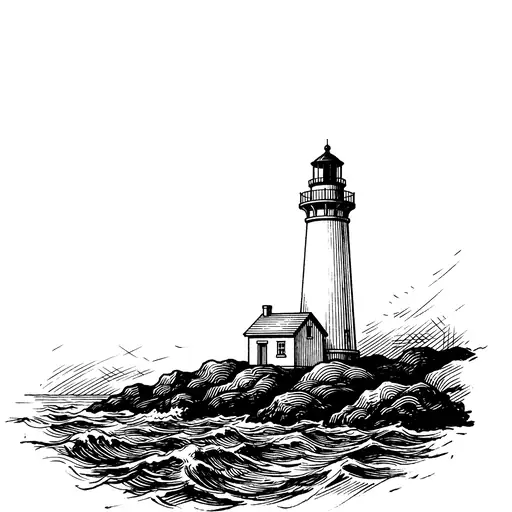
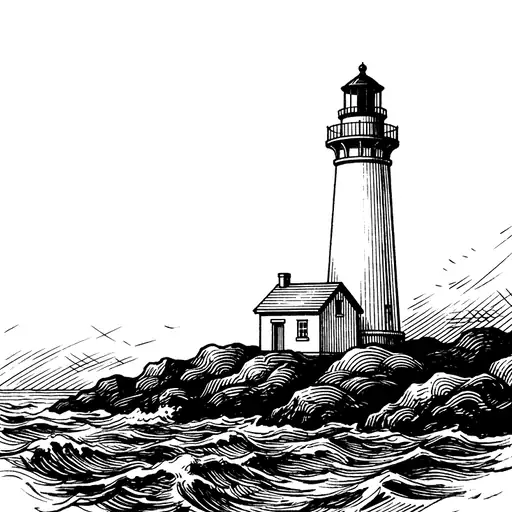
Add Google sign-in, bleed the art and remove catalog codes
Sign-in lives on a new Settings page, reached from the corner of every
screen. Redirects are limited to the site and localhost, with tests. Art is
framed by its dense ink and runs off the bottom and lower sides of each cell.
The A-1 style codes meant nothing in a personal library, so they're gone.

diff --git a/src/styles/app.css b/src/styles/app.css
@@ -49,7 +49,7 @@ svg { flex: none; }
   line-height: 1;
 }
 .head { font-size: 1.75rem; }
-.title-head { font-size: clamp(3rem, 15vw, 5rem); padding-right: 60px; }
+.title-head { font-size: clamp(3rem, 15vw, 5rem); padding-right: 112px; }
 .book-voice { font: 400 1.25rem/1.4 var(--book); }
 .hand { color: var(--biro); font: 400 1.25rem/1.35 var(--reader); }
 .where { font-size: 0.9375rem; }
@@ -155,11 +155,8 @@ p a { color: inherit; text-underline-offset: 3px; }
 .tabs a[aria-current] { background: var(--ink); color: var(--paper); }
 .tabs svg { width: 22px; height: 22px; }
 
+.corner { position: absolute; top: 8px; right: 16px; z-index: 2; display: flex; gap: 8px; }
 .theme-toggle {
-  position: absolute;
-  top: 8px;
-  right: 16px;
-  z-index: 2;
   display: grid;
   place-items: center;
   width: 48px;
@@ -187,6 +184,9 @@ p a { color: inherit; text-underline-offset: 3px; }
 /* The title prints over the blank paper at the top of the art, and the art sits on the cell's floor. */
 .cell > .thumb { margin-top: auto; aspect-ratio: 1; }
 .cell:has(.thumb[data-art]) > .cell-head { z-index: 1; margin-bottom: -18%; }
+/* Art runs right up to the rules on the bottom and sides. Elsewhere it has no cell, so it gets its own rule. */
+.cell:has(.thumb[data-art]) > .thumb { width: calc(100% + 12px); margin: auto -6px -6px; }
+.book-head .thumb[data-art], .selected .thumb[data-art], .buddy-head .thumb[data-art], .reading-cell .thumb[data-art] { border: var(--line) solid var(--ink); }
 .thumb-art { position: absolute; inset: 0; display: block; width: 100%; height: 100%; }
 .thumb-icon { display: block; width: 100%; height: 100%; object-fit: contain; padding: 8%; }
 .thumb-stamp {
@@ -225,7 +225,7 @@ p a { color: inherit; text-underline-offset: 3px; }
 /* ---------- Desk ---------- */
 .desk { display: grid; grid-template-columns: minmax(0, 1fr); gap: 14px; }
 
-.masthead { display: flex; align-items: center; gap: 12px; min-height: 48px; padding-right: 60px; }
+.masthead { display: flex; align-items: center; gap: 12px; min-height: 48px; padding-right: 112px; }
 .masthead::before, .masthead::after { content: ''; flex: 1; height: 4px; background: var(--rule); }
 .masthead h1 { font-size: 2.75rem; }
 
@@ -346,7 +346,7 @@ p a { color: inherit; text-underline-offset: 3px; }
 }
 
 /* ---------- Shelves ---------- */
-.shelves-head { display: flex; align-items: baseline; gap: 12px; padding-right: 60px; }
+.shelves-head { display: flex; align-items: baseline; gap: 12px; padding-right: 112px; }
 .shelves-tools { display: flex; flex-wrap: wrap; gap: 10px; }
 .shelves-tools .segments { flex: 1 1 200px; }
 .year { display: flex; align-items: center; gap: 10px; margin: 8px 0; font-size: 1.5rem; }
@@ -377,8 +377,7 @@ p a { color: inherit; text-underline-offset: 3px; }
 .cell-static { display: flex; flex-direction: column; gap: 4px; min-width: 0; margin: 0 calc(var(--line) * -1) calc(var(--line) * -1) 0; padding: 6px; border: var(--line) solid var(--ink); }
 .cell-head { position: relative; display: grid; grid-template-rows: 1fr auto; gap: 1px; min-height: 3.2em; }
 .cell-title { font: 400 0.9375rem/1.05 var(--head); letter-spacing: 0.015em; text-transform: uppercase; }
-.cell-code { font-size: 0.75rem; line-height: 1; }
-.catalog[data-size='small'] .cell-title, .catalog[data-size='small'] .cell-code { display: none; }
+.catalog[data-size='small'] .cell-title { display: none; }
 .catalog[data-size='small'] .cell-head { min-height: 20px; }
 
 .selected {
@@ -426,7 +425,7 @@ td a { display: inline-flex; align-items: center; min-height: 48px; color: inher
 .entries .book-voice { font-size: 1.125rem; }
 
 /* ---------- Buddy ---------- */
-.buddy-head { display: grid; grid-template-columns: auto 52px minmax(0, 1fr); gap: 10px; align-items: center; padding-right: 56px; }
+.buddy-head { display: grid; grid-template-columns: auto 52px minmax(0, 1fr); gap: 10px; align-items: center; padding-right: 112px; }
 .buddy-title { font: 600 1.25rem/1.15 var(--book); }
 
 .thread { display: grid; gap: 18px; }
@@ -500,7 +499,7 @@ td a { display: inline-flex; align-items: center; min-height: 48px; color: inher
 /* ---------- Wide ---------- */
 @media (min-width: 900px) {
   .page { padding: 24px 32px 48px; }
-  .theme-toggle { top: 16px; right: 32px; }
+  .corner { top: 16px; right: 32px; }
   .tabs { position: static; order: -1; border-top: 0; border-bottom: var(--line) solid var(--ink); }
   .tabs a { flex-direction: row; gap: 8px; min-height: 52px; }
   .desk { grid-template-columns: minmax(0, 7fr) minmax(0, 5fr); gap: 16px 32px; align-items: start; }

diff --git a/src/components/settings/Settings.tsx b/src/components/settings/Settings.tsx
@@ -1,0 +1,68 @@
+import { useAuthActions } from '@convex-dev/auth/react'
+import { useConvexAuth, useQuery } from 'convex/react'
+import { useState } from 'react'
+import { api } from '../../../convex/_generated/api'
+
+function Account() {
+  const { isLoading, isAuthenticated } = useConvexAuth()
+  const viewer = useQuery(api.users.viewer, isAuthenticated ? {} : 'skip')
+  const { signIn, signOut } = useAuthActions()
+  const [busy, setBusy] = useState(false)
+  const [failed, setFailed] = useState(false)
+
+  const run = async (action: () => Promise<unknown>) => {
+    setBusy(true)
+    setFailed(false)
+    try {
+      await action()
+    } catch {
+      setFailed(true)
+    } finally {
+      setBusy(false)
+    }
+  }
+
+  if (isLoading) return <p role="status">Checking your account…</p>
+
+  return (
+    <div className="box stack">
+      {isAuthenticated ? (
+        <>
+          <p>Signed in as <strong>{viewer?.name ?? viewer?.email ?? '…'}</strong></p>
+          {viewer?.name && viewer.email && <p className="where">{viewer.email}</p>}
+          <div className="btn-row">
+            <button type="button" className="btn" disabled={busy} onClick={() => run(signOut)}>Sign out</button>
+          </div>
+        </>
+      ) : (
+        <>
+          <p>Sign in to keep your books, notes and conversations.</p>
+          <div className="btn-row">
+            <button
+              type="button"
+              className="btn btn-solid"
+              disabled={busy}
+              onClick={() => run(() => signIn('google', { redirectTo: `${window.location.origin}/settings` }))}
+            >
+              Sign in with Google
+            </button>
+          </div>
+        </>
+      )}
+      {failed && <p role="alert">That didn't work. Check your connection and try again.</p>}
+    </div>
+  )
+}
+
+export function Settings() {
+  return (
+    <div className="narrow stack">
+      <h1 className="title-head">Settings</h1>
+      <hr className="rule" />
+      <section className="stack" aria-labelledby="account-heading">
+        <h2 id="account-heading" className="head">Account</h2>
+        <Account />
+      </section>
+    </div>
+  )
+}

diff --git a/src/components/shelf/Shelves.tsx b/src/components/shelf/Shelves.tsx
@@ -125,11 +125,10 @@ export function Shelves() {
       {view === 'table' && shown.length > 0 && (
         <div className="table-wrap">
           <table>
-            <thead><tr><th>Code</th><th>Title</th><th>Author</th><th>Year</th><th>Rating</th></tr></thead>
+            <thead><tr><th>Title</th><th>Author</th><th>Year</th><th>Rating</th></tr></thead>
             <tbody>
               {shown.map(b => (
                 <tr key={b.slug}>
-                  <td>{b.code}</td>
                   <td><Link to="/books/$bookSlug" params={{ bookSlug: b.slug }}>{b.title}</Link></td>
                   <td>{b.author}</td>
                   <td>{b.year}</td>
@@ -151,12 +150,11 @@ export function Shelves() {
                 type="button"
                 className="cell"
                 aria-pressed={selected === b.slug}
-                aria-label={`${b.title} by ${b.author}, code ${b.code}`}
+                aria-label={`${b.title} by ${b.author}`}
                 onClick={() => setSelected(selected === b.slug ? null : b.slug)}
               >
                 <span className="cell-head">
                   <span className="cell-title">{b.title}</span>
-                  <span className="cell-code">{b.code}</span>
                   {b.status === 'read' && <Tick />}
                 </span>
                 <Thumb book={b} />

diff --git a/convex/lib/redirects.test.ts b/convex/lib/redirects.test.ts
@@ -1,0 +1,29 @@
+import { expect, test } from 'vitest'
+import { allowedRedirect } from './redirects'
+
+const SITE = 'https://margin.example'
+
+test('the site itself is allowed, however the address is written', () => {
+  expect(allowedRedirect('/settings', SITE)).toBe('https://margin.example/settings')
+  expect(allowedRedirect('https://margin.example/settings', SITE)).toBe('https://margin.example/settings')
+  expect(allowedRedirect('?code=1', SITE)).toBe('https://margin.example/?code=1')
+})
+
+test('this machine is allowed while developing', () => {
+  expect(allowedRedirect('http://localhost:5199/settings', SITE)).toBe('http://localhost:5199/settings')
+  expect(allowedRedirect('http://127.0.0.1:5199/', SITE)).toBe('http://127.0.0.1:5199/')
+})
+
+test('anywhere else is refused, including lookalikes and tricks', () => {
+  for (const bad of [
+    'https://evil.example/',
+    'https://margin.example.evil.example/',
+    'https://margin.example@evil.example/',
+    '//evil.example/',
+    'https://localhost.evil.example/',
+    'https://localhost/',
+    'javascript:alert(1)',
+  ]) {
+    expect(() => allowedRedirect(bad, SITE), bad).toThrow()
+  }
+})

diff --git a/src/main.tsx b/src/main.tsx
@@ -5,12 +5,15 @@ import '@fontsource/kalam/latin-400.css'
 import './styles/tokens.css'
 import './styles/app.css'
 
+import { ConvexAuthProvider } from '@convex-dev/auth/react'
 import { createRouter, RouterProvider } from '@tanstack/react-router'
+import { ConvexReactClient } from 'convex/react'
 import { MotionConfig } from 'motion/react'
 import { StrictMode } from 'react'
 import { createRoot } from 'react-dom/client'
 import { routeTree } from './routeTree.gen'
 
+const convex = new ConvexReactClient(import.meta.env.VITE_CONVEX_URL as string)
 const router = createRouter({ routeTree, defaultViewTransition: true })
 
 declare module '@tanstack/react-router' {
@@ -21,8 +24,10 @@ declare module '@tanstack/react-router' {
 
 createRoot(document.getElementById('root')!).render(
   <StrictMode>
-    <MotionConfig reducedMotion="user">
-      <RouterProvider router={router} />
-    </MotionConfig>
+    <ConvexAuthProvider client={convex}>
+      <MotionConfig reducedMotion="user">
+        <RouterProvider router={router} />
+      </MotionConfig>
+    </ConvexAuthProvider>
   </StrictMode>,
 )

diff --git a/src/routes/__root.tsx b/src/routes/__root.tsx
@@ -1,5 +1,5 @@
 import { createRootRoute, Link, Outlet, useRouterState } from '@tanstack/react-router'
-import { Compass, LampDesk, Library, Camera, Moon, Sun } from 'lucide-react'
+import { Compass, LampDesk, Library, Camera, Moon, Sun, UserRound } from 'lucide-react'
 import { setTheme, useTheme } from '../lib/theme'
 
 export const Route = createRootRoute({ component: Root })
@@ -27,7 +27,12 @@ function Root() {
   return (
     <div className="app">
       <main className="page">
-        <ThemeToggle />
+        <div className="corner">
+          <Link to="/settings" className="theme-toggle" aria-label="Settings and account" title="Settings and account">
+            <UserRound aria-hidden="true" strokeWidth={2.25} />
+          </Link>
+          <ThemeToggle />
+        </div>
         <Outlet />
       </main>
       <nav className="tabs" aria-label="Main">

diff --git a/convex/lib/redirects.ts b/convex/lib/redirects.ts
@@ -1,0 +1,11 @@
+const LOCAL = new Set(['localhost', '127.0.0.1'])
+
+/** Where sign-in may send someone back to: the deployed site, or this machine while developing. Anything else throws. */
+export function allowedRedirect(redirectTo: string, siteUrl: string): string {
+  const site = new URL(siteUrl)
+  if (redirectTo.startsWith('?')) return `${site.origin}/${redirectTo}`
+  const target = new URL(redirectTo, site)
+  if (target.origin === site.origin) return target.toString()
+  if (LOCAL.has(target.hostname) && target.protocol === 'http:') return target.toString()
+  throw new Error('That address is not allowed for sign-in')
+}

diff --git a/convex/_generated/api.d.ts b/convex/_generated/api.d.ts
@@ -8,13 +8,23 @@
  * @module
  */
 
+import type * as auth from "../auth.js";
+import type * as http from "../http.js";
+import type * as lib_redirects from "../lib/redirects.js";
+import type * as users from "../users.js";
+
 import type {
   ApiFromModules,
   FilterApi,
   FunctionReference,
 } from "convex/server";
 
-declare const fullApi: ApiFromModules<{}>;
+declare const fullApi: ApiFromModules<{
+  auth: typeof auth;
+  http: typeof http;
+  "lib/redirects": typeof lib_redirects;
+  users: typeof users;
+}>;
 
 /**
  * A utility for referencing Convex functions in your app's public API.

diff --git a/convex/auth.ts b/convex/auth.ts
@@ -1,5 +1,12 @@
-import { convexAuth } from "@convex-dev/auth/server";
+import Google from '@auth/core/providers/google'
+import { convexAuth } from '@convex-dev/auth/server'
+import { allowedRedirect } from './lib/redirects'
 
 export const { auth, signIn, signOut, store, isAuthenticated } = convexAuth({
-  providers: [],
-});
+  providers: [Google],
+  callbacks: {
+    async redirect({ redirectTo }) {
+      return allowedRedirect(redirectTo, process.env.SITE_URL ?? '')
+    },
+  },
+})

diff --git a/src/sample/sample.ts b/src/sample/sample.ts
@@ -23,12 +23,11 @@ const demoArt = new Set([
   'House of Leaves', 'Stoner', 'Kindred', 'Gilead', 'To the Lighthouse',
 ])
 
-export const books = library.map((b, i) => {
+export const books = library.map(b => {
   const slug = slugify(`${b.title} ${b.author.split(' ').at(-1)}`)
   return {
     ...b,
     status: b.status as Status,
-    code: `A-${i + 1}`,
     slug,
     rating: ratings[b.title] ?? null,
     tags: tags[b.title] ?? [],

diff --git a/convex/users.ts b/convex/users.ts
@@ -1,0 +1,13 @@
+import { getAuthUserId } from '@convex-dev/auth/server'
+import { query } from './_generated/server'
+
+/** Whoever is signed in, or null. */
+export const viewer = query({
+  args: {},
+  handler: async ctx => {
+    const userId = await getAuthUserId(ctx)
+    if (!userId) return null
+    const user = await ctx.db.get(userId)
+    return user && { name: user.name ?? null, email: user.email ?? null }
+  },
+})

diff --git a/src/routes/settings.index.tsx b/src/routes/settings.index.tsx
@@ -1,6 +1,4 @@
 import { createFileRoute } from '@tanstack/react-router'
-import { Placeholder } from '../components/placeholder/Placeholder'
+import { Settings } from '../components/settings/Settings'
 
-export const Route = createFileRoute('/settings/')({
-  component: () => <Placeholder title="Settings" />,
-})
+export const Route = createFileRoute('/settings/')({ component: Settings })
